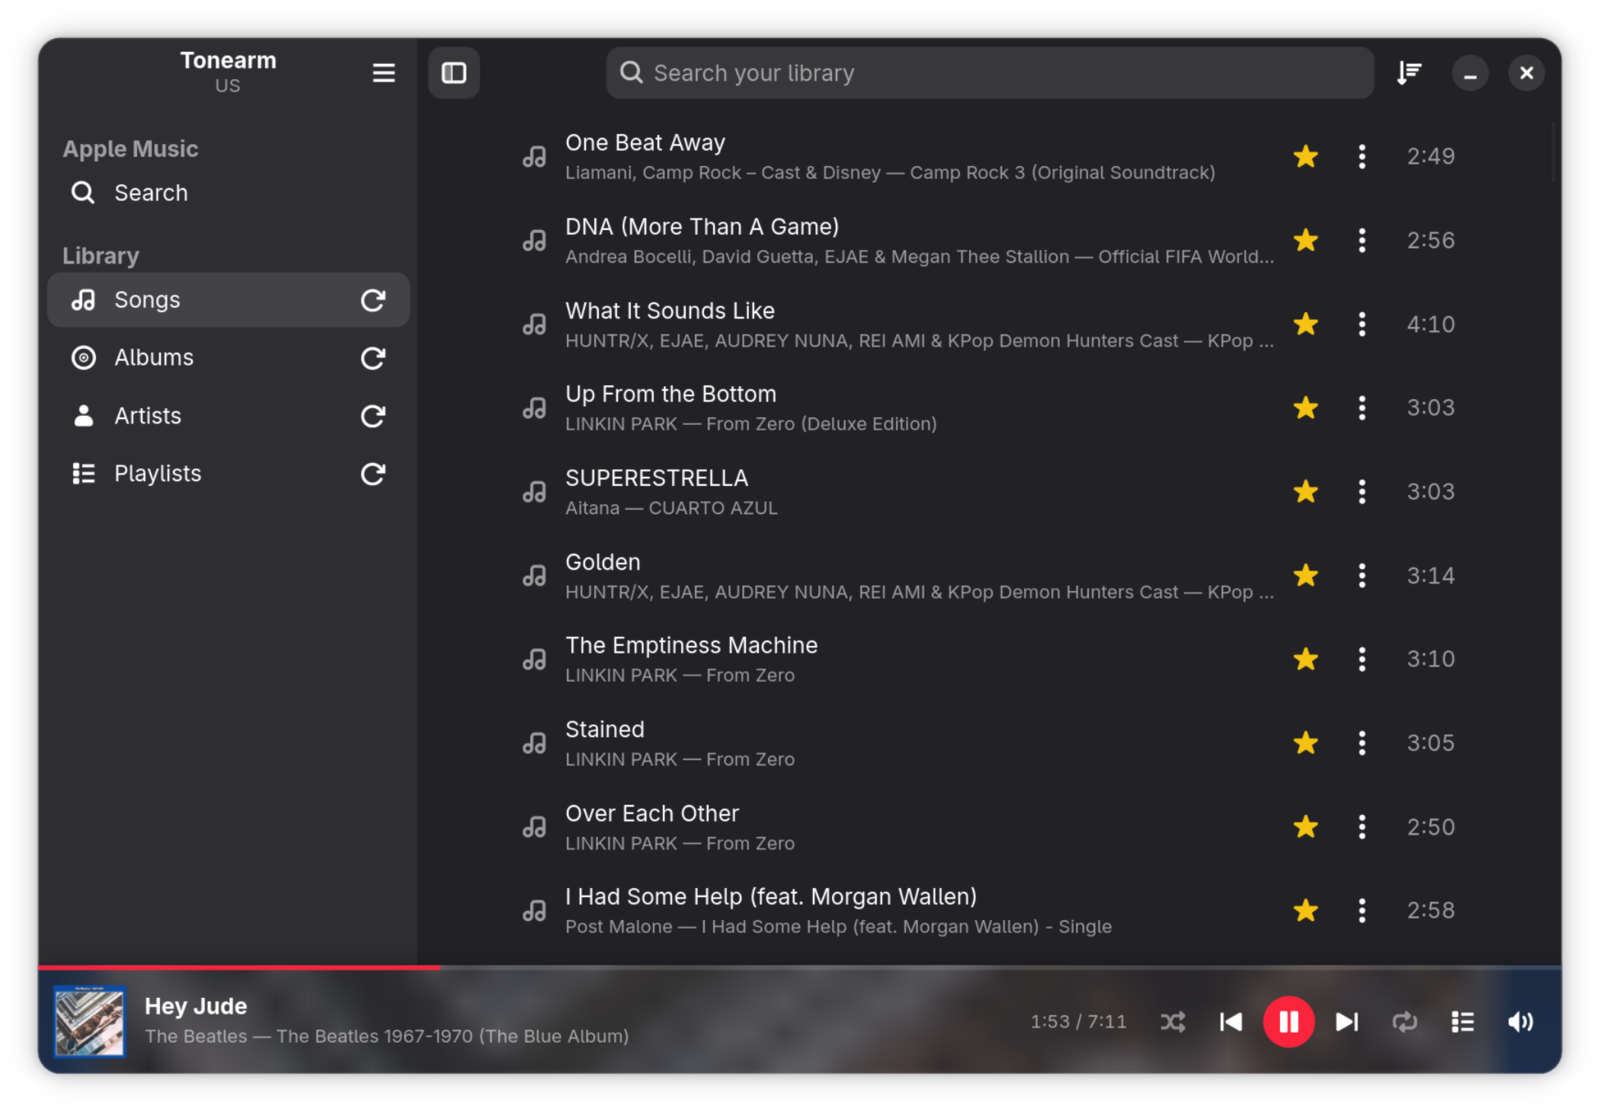
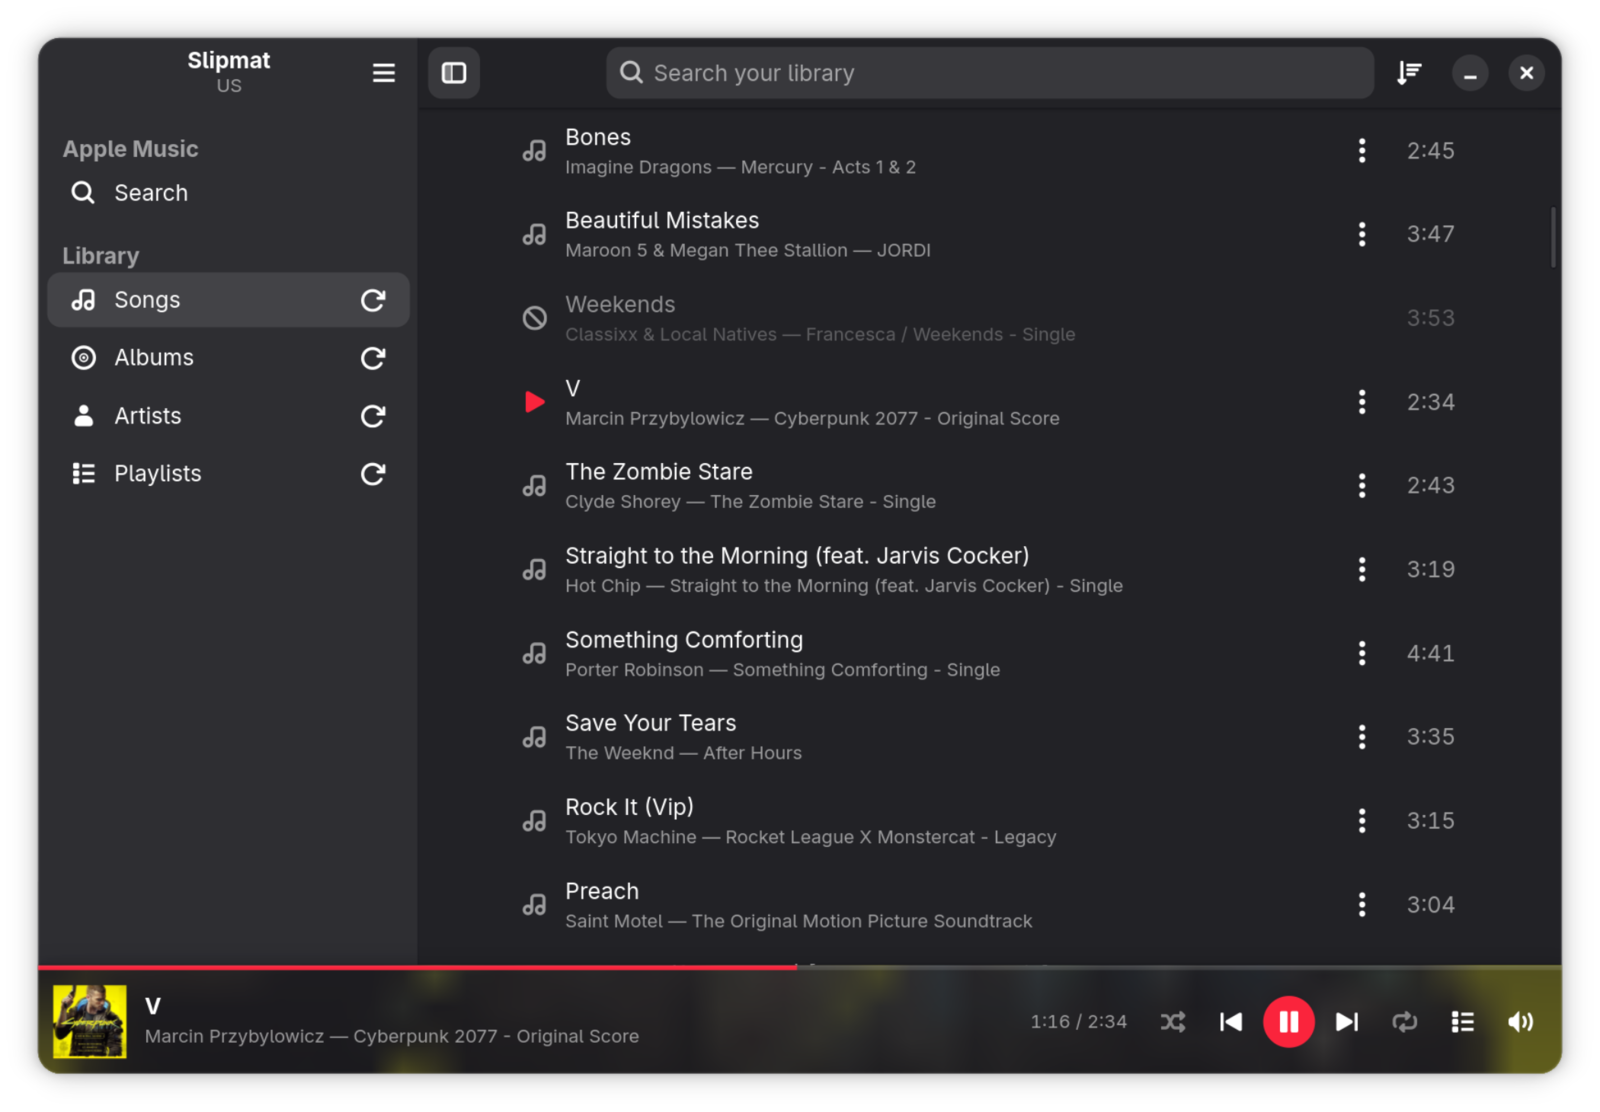
docs: screenshots for 0.3.0
The whole set retaken. The old one showed "Tonearm" in the sidebar header
of every shot, which made it the last visible trace of the old name.

Three captions were wrong as well as old, and one of them was wrong in the
way this file warns about:

- `playlist.webp` said "the four-up cover **Apple** builds from its tracks".
  Doubly wrong by 0.3: Apple sends no artwork at all for a playlist you made
  yourself, and the mosaic in the picture is one Slipmat now composes.
- `search.webp` described an artist page; the shot is the results list.
- `library.webp` claimed songs "each starred as a favourite", and none in
  the new shot are.

Adds `artists.webp`, which the set never had — the Artists grid is the one
library section with no picture of it, and round portraits pulled from the
catalogue twin are the part of M8 hardest to describe in prose.

The new shots also carry things the old ones could not: the Albums grid with
the sidebar collapsed, an unplayable track greyed out in the songs list, and
a 522-track queue in the player.

Processed per this directory's own recipe: 1600px wide, lossless WebP where
the picture is text and lossy where it is album art. 928 KB for six shots,
against 724 KB for the four that were here.

diff --git a/README.md b/README.md
@@ -19,9 +19,10 @@ GNOME search, and MPRIS that works in both directions.
 
 The web engine is still there. You just never see it.
 
-![Slipmat showing a library of songs, each starred as a favourite, with a menu
-button on every row and the Now Playing bar along the bottom — the playing
-track's cover behind it, and its progress as a thin line across the
+![Slipmat showing a library of songs: the playing track marked in red, one
+Apple cannot stream greyed out and struck through, a menu button on every row,
+and the Now Playing bar along the bottom — the playing track's cover behind it,
+and its progress as a thin line across the
 top](docs/screenshots/library.webp)
 
 ## What it does
@@ -36,26 +37,32 @@ the way it was mastered to. This is measured, not hoped for — see
 playlists as grids. Type-to-find filtering on all four. Artist portraits come
 from Apple's catalogue, and covers are cached to disk as they scroll into view.
 
-![The Albums grid, covers loading as tiles scroll into
-view](docs/screenshots/albums.webp)
+![The Albums grid with the sidebar collapsed, covers loading as tiles scroll
+into view](docs/screenshots/albums.webp)
+
+![The Artists grid: round portraits, each pulled from the artist's catalogue
+twin, with their genre beneath](docs/screenshots/artists.webp)
 
 **The whole catalogue.** Search Apple Music, paginated as you scroll. Results
 mix artists and albums above the songs, and either one opens a page you can play
 from and drill through — artist → album → track.
 
-![An artist page reached from a catalogue search: the portrait, the genre, and
-25 albums each with a chevron into its own page](docs/screenshots/search.webp)
+![A catalogue search for the Beatles: artists, Apple Music playlists, albums
+and songs in one list, each opening a page of its own, with a filter to narrow
+the type](docs/screenshots/search.webp)
 
-![A playlist page: the four-up cover Apple builds from its tracks, the count,
-Play and Shuffle, and the tracks below](docs/screenshots/playlist.webp)
+![A playlist page: the four-up cover Slipmat composes from the first four
+tracks — Apple sends none for a playlist you made yourself — then the song
+count, Play and Shuffle, and the tracks below](docs/screenshots/playlist.webp)
 
 **The player opens out.** Drag the Now Playing bar up, or press the queue
 button, and it becomes a full player: the artwork large, the transport under it,
 and the queue beside it. The cover sits behind the whole thing, blurred and
 drifting, and cross-fades when the track changes.
 
-![The expanded player: large artwork, transport beneath it, the queue alongside,
-and the cover blurred behind the whole surface](docs/screenshots/player.webp)
+![The expanded player: large artwork, transport beneath it, a 522-track queue
+alongside, and the cover blurred behind the whole
+surface](docs/screenshots/player.webp)
 
 **A queue you can see.** Inside that player rather than a modal, opening on the
 track that is playing. Jump to any track, remove any track, without disturbing

diff --git a/docs/screenshots/README.md b/docs/screenshots/README.md
@@ -20,10 +20,11 @@ rsvg-convert -w 128 -h 128 \
 
 | File | Shows |
 | --- | --- |
-| `library.webp` | Songs — favourites, row menus, sidebar reload |
-| `search.webp` | An artist page reached from a catalogue search |
-| `albums.webp` | The Albums grid |
-| `playlist.webp` | A playlist page: cover, Play and Shuffle, tracks |
+| `library.webp` | Songs — the play marker, an unplayable track, row menus |
+| `search.webp` | A catalogue search: artists, playlists, albums and songs mixed |
+| `albums.webp` | The Albums grid, sidebar collapsed |
+| `artists.webp` | The Artists grid — round portraits from the catalogue twin |
+| `playlist.webp` | A playlist page: the composed mosaic, Play and Shuffle, tracks |
 | `player.webp` | The expanded player: artwork, transport, queue |
 
 ## Taking them
@@ -40,12 +41,19 @@ rsvg-convert -w 128 -h 128 \
 - Show what is *new*. A shot that could have been taken three versions ago is a
   wasted one.
 
-  This matters more than it sounds. The 0.1 set went stale in one release and
-  in a way that was actively misleading: `albums.webp` was captioned "with the
-  queue sidebar open", and by 0.2 the queue had moved into the player and no
-  sidebar existed. A screenshot outlives the sentence next to it, so when the
-  UI moves, **check the captions as well as the images** — a wrong caption is
-  worse than an old picture, because a reader trusts it.
+  This matters more than it sounds, and it has now happened twice. The 0.1 set
+  went stale in one release in a way that was actively misleading:
+  `albums.webp` was captioned "with the queue sidebar open", and by 0.2 the
+  queue had moved into the player and no sidebar existed. Then the 0.2 set did
+  it again — `playlist.webp` was captioned "the four-up cover **Apple** builds
+  from its tracks", and by 0.3 that was doubly wrong: Apple sends no artwork at
+  all for a playlist you made, and the mosaic in the picture is one Slipmat
+  composes itself.
+
+  A screenshot outlives the sentence next to it, so when the UI moves, **check
+  the captions as well as the images** — a wrong caption is worse than an old
+  picture, because a reader trusts it and it explains what they are looking
+  at.
 
 ## Processing
 
